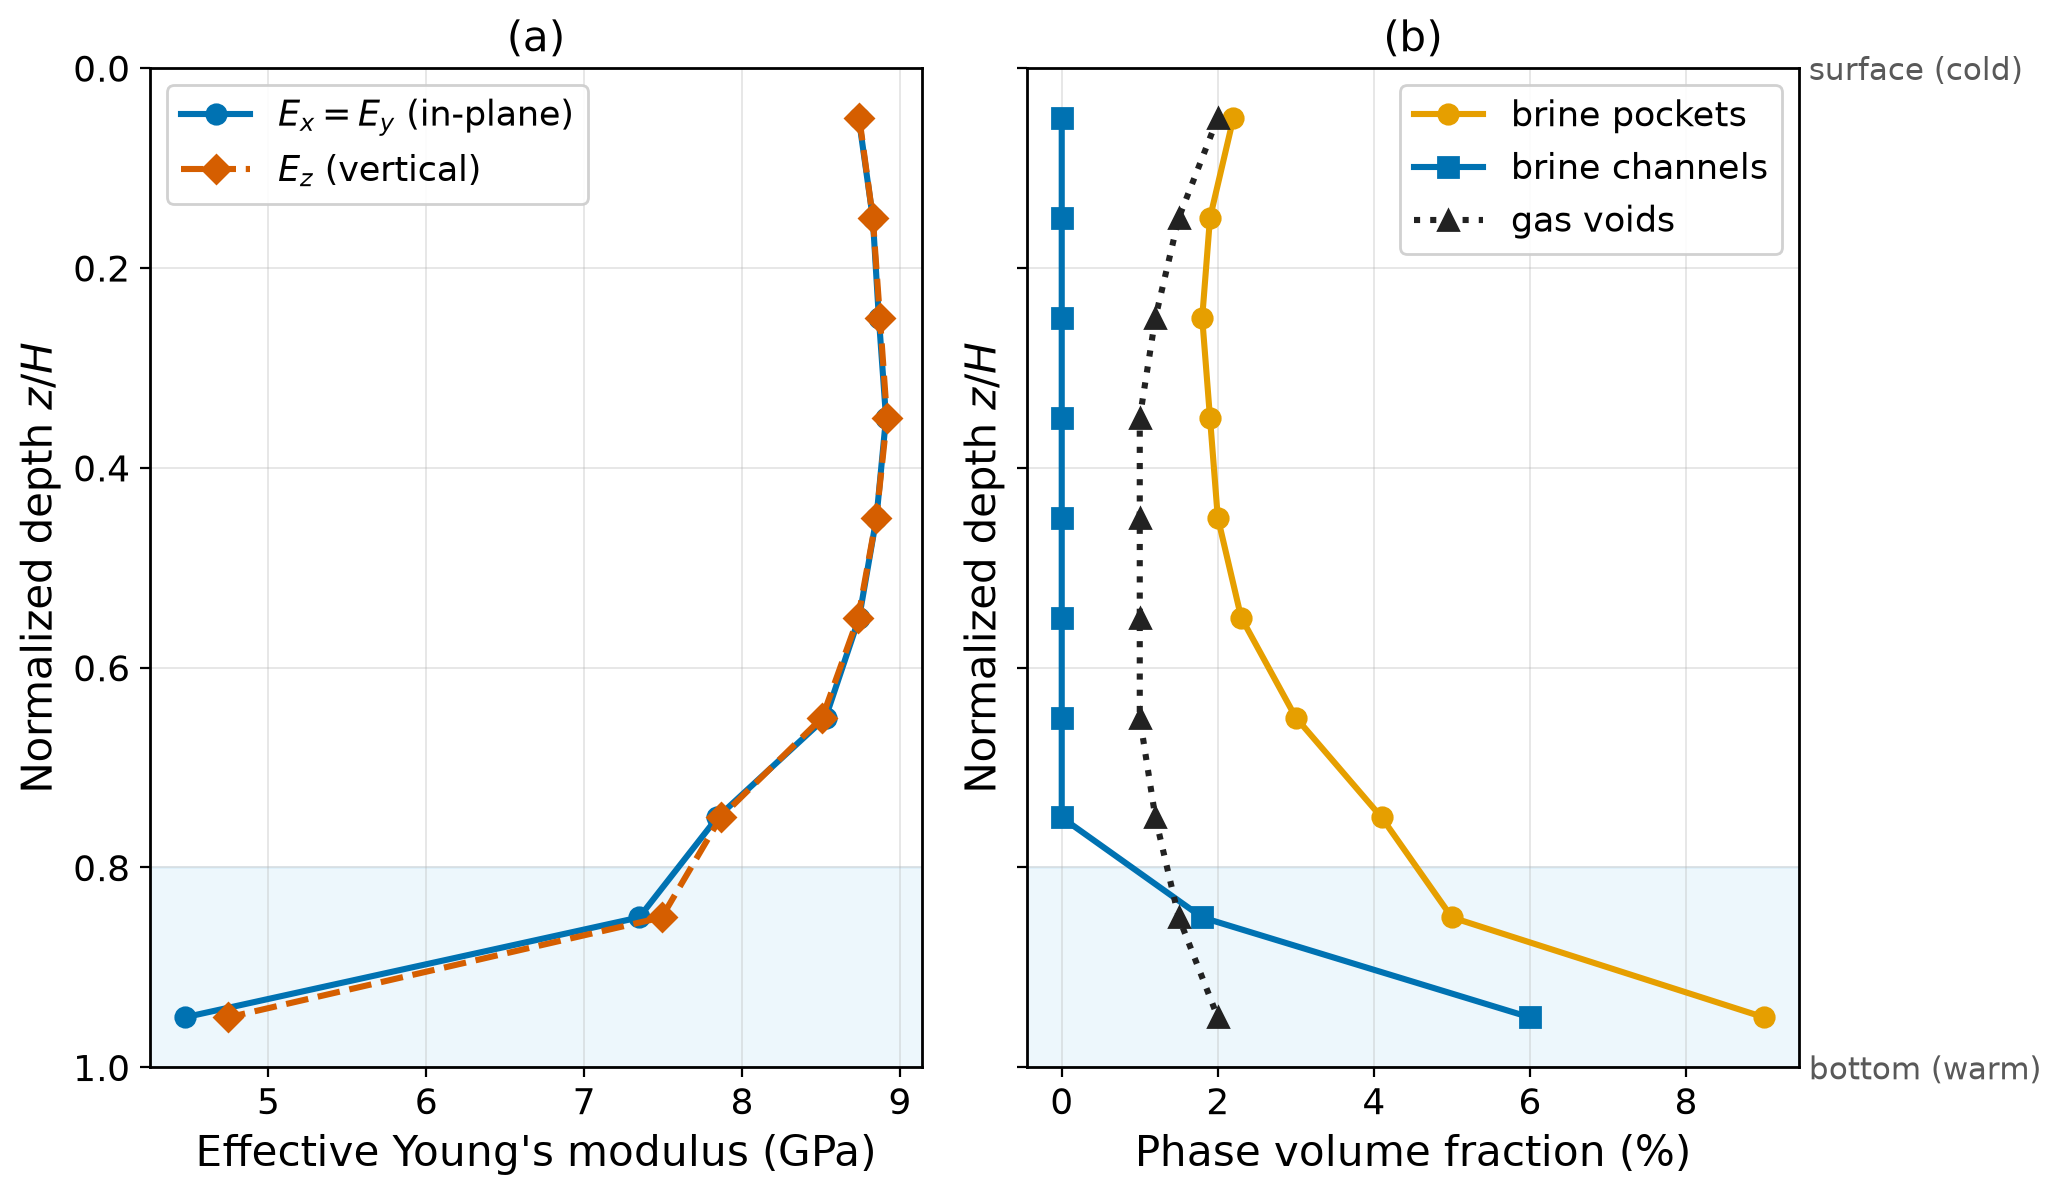
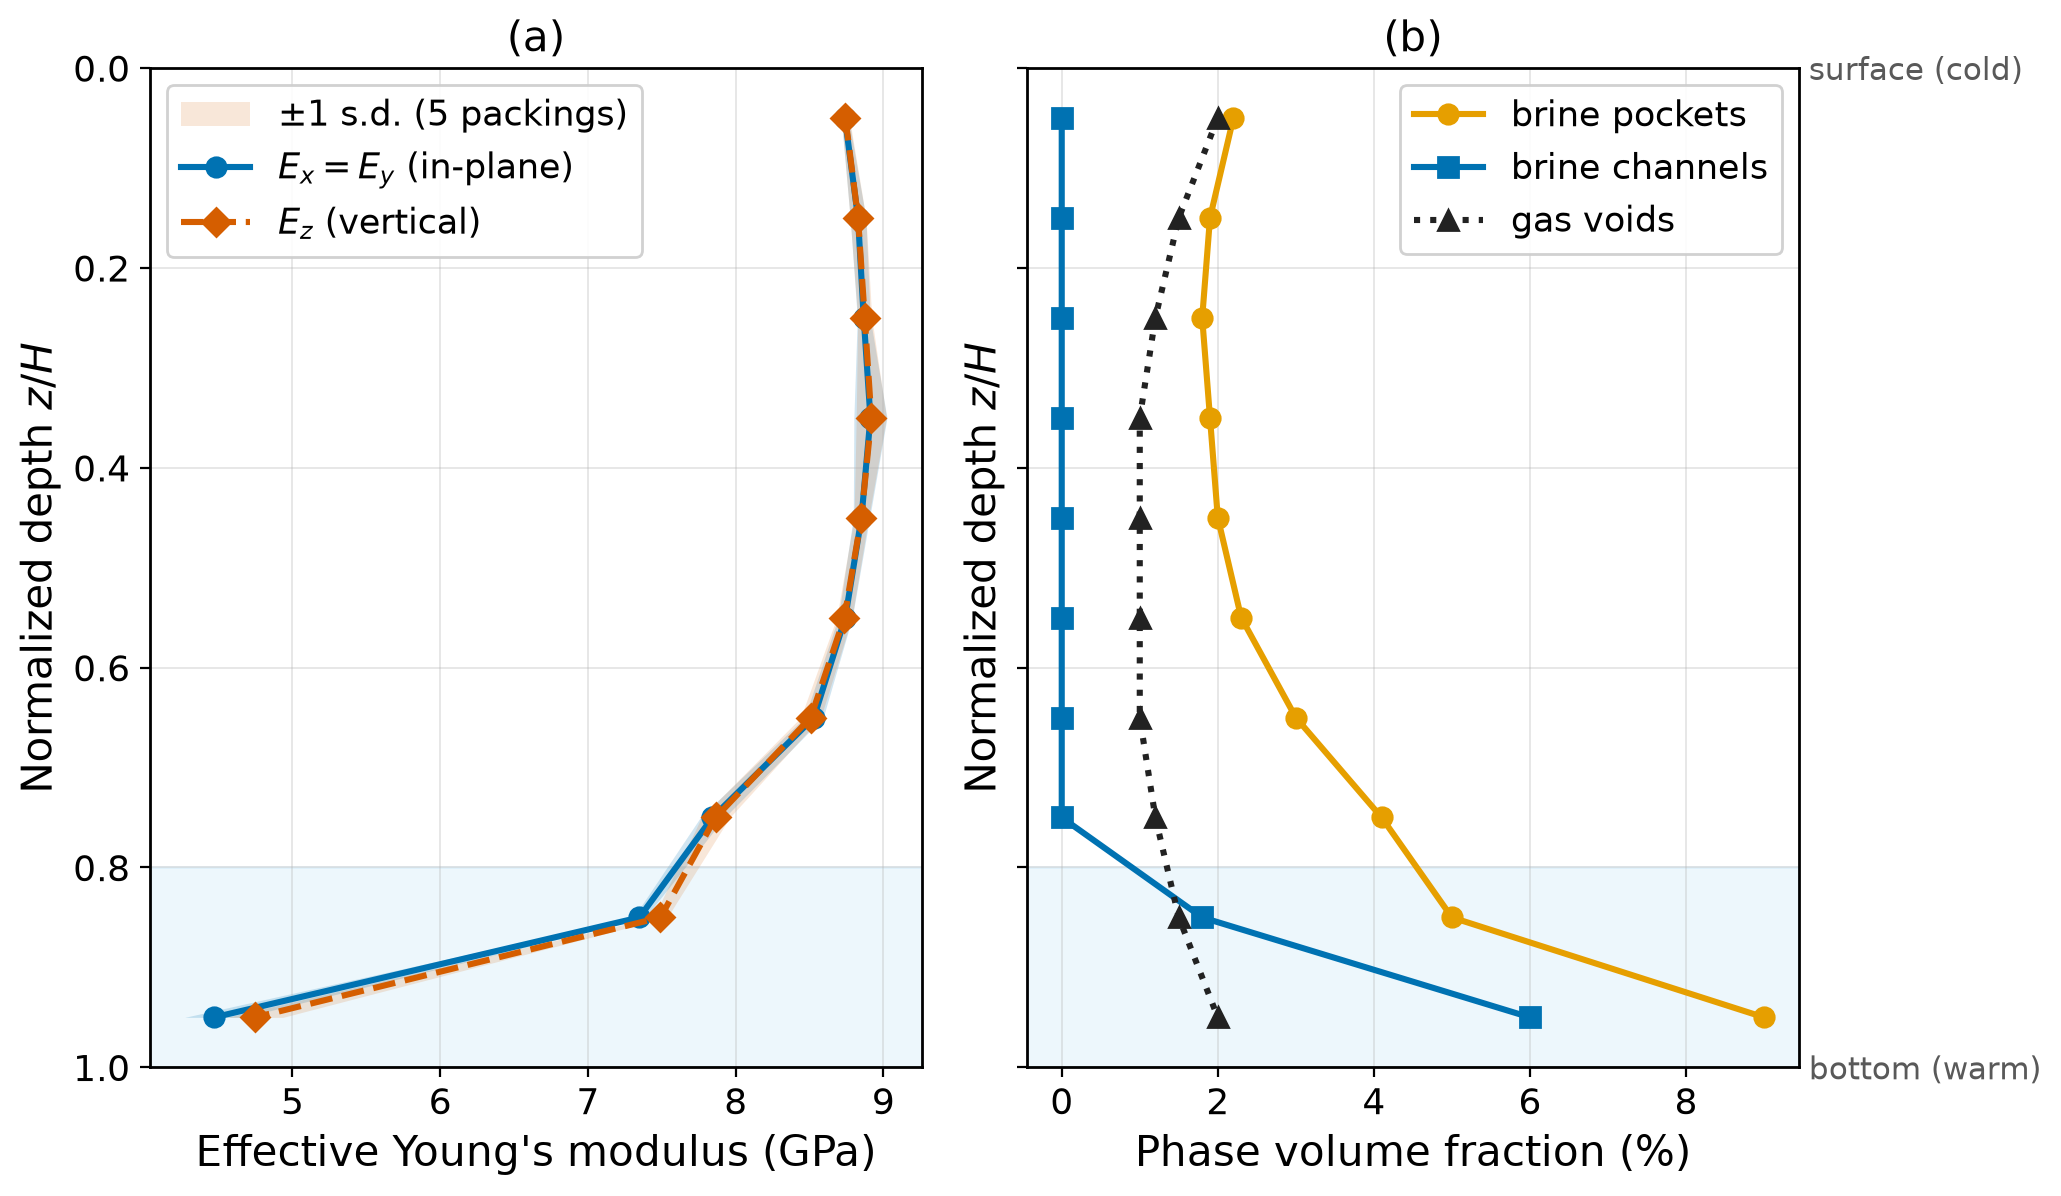
make_rev_figs: +/-1 s.d. replicate scatter band on the column E(z) profile
Read results_colseeds.csv (five packings per slice from the make_colseeds
campaign) and shade the +/-1 s.d. envelope of E_x and E_z around the
single-packing depth profile; the figure still builds from the single column
alone if the replicate results are absent. Answers Jani #12 / Reviewer 2
(show Figure 2's statistical scatter). Ships results_colseeds.csv and the
regenerated ice_column_profiles.png.

diff --git a/analysis/make_rev_figs.py b/analysis/make_rev_figs.py
@@ -98,6 +98,26 @@ def fig_scfdepth():
 # ===========================================================================
 # 2) ice_column_profiles : effective moduli + phase fractions vs z/H
 # ===========================================================================
+def _seed_std(z):
+    """Per-slice standard deviation of E_x, E_z across the replicate packings
+    (results_colseeds.csv, 5 seeds per slice), aligned to the depth array z.
+    Returns (sEx, sEz) in GPa, or (None, None) if the replicate campaign has not
+    been run/pulled yet -- so the figure still builds from the single-packing
+    column alone."""
+    try:
+        rr = load("results_colseeds.csv")
+    except FileNotFoundError:
+        return None, None
+    ex, ez = {}, {}
+    for x in rr:
+        zk = round(zfrac(x["run_id"].rsplit("_", 1)[0]), 2)  # CSEED_z95_s3 -> 0.95
+        ex.setdefault(zk, []).append(float(x["E_x"]) / 1e9)
+        ez.setdefault(zk, []).append(float(x["E_z"]) / 1e9)
+    sEx = np.array([np.std(ex.get(round(zz, 2), [0.0])) for zz in z])
+    sEz = np.array([np.std(ez.get(round(zz, 2), [0.0])) for zz in z])
+    return sEx, sEz
+
+
 def fig_column():
     r = load("results_column.csv")
     z = np.array([zfrac(x["run_id"]) for x in r])
@@ -106,9 +126,15 @@ def fig_column():
     brine = np.array([float(x["VoF_incl_sphere"]) for x in r]) * 100
     chan = np.array([float(x["channel_vof_target"]) for x in r]) * 100
     gas = np.array([float(x["VoF_void_sphere"]) for x in r]) * 100
+    sEx, sEz = _seed_std(z)                       # replicate scatter, if available
 
     fig, (a, b) = plt.subplots(1, 2, figsize=(10.5, 6.2), sharey=True)
 
+    # +/-1 s.d. envelope over the 5 packings per slice (Jani #12 / Reviewer 2)
+    if sEx is not None:
+        a.fill_betweenx(z, Exy - sEx, Exy + sEx, color=BLUE, alpha=0.18, lw=0)
+        a.fill_betweenx(z, Ez - sEz, Ez + sEz, color=VERM, alpha=0.15, lw=0,
+                        label=r"$\pm1$ s.d. (5 packings)")
     a.plot(Exy, z, "-", color=BLUE, marker="o", label=r"$E_x=E_y$ (in-plane)")
     a.plot(Ez, z, "--", color=VERM, marker="D", label=r"$E_z$ (vertical)")
     a.set_xlabel(r"Effective Young's modulus (GPa)")
